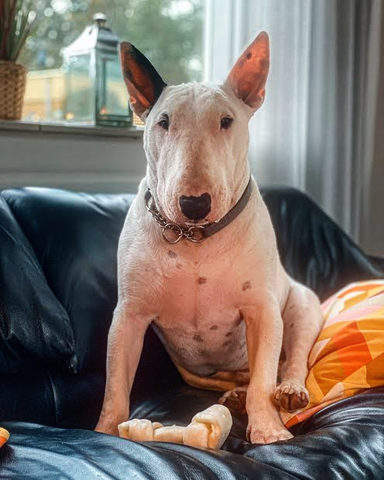
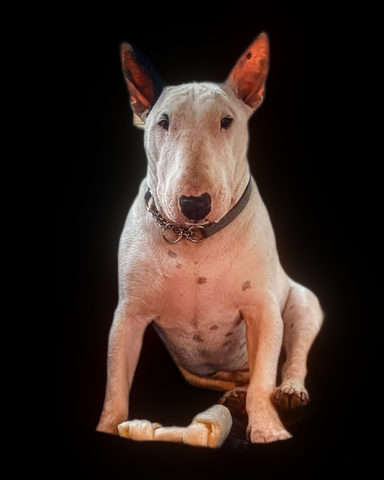
refactor(bloom)!: fold glow into bloom
glow is bloom with one octave. bloom gains edge 'constant' and constant_value
so the halo can fade toward the picture's edge. Callers use bloom with
octaves = 1 and the old radius, amount and threshold, which renders
byte-identical.

BREAKING CHANGE: the glow effect is removed; use bloom(octaves=1).

diff --git a/tests/test_loader.py b/tests/test_loader.py
@@ -482,7 +482,7 @@ of = "depth"
 low = 0.5
 
 [[step]]
-effect = "glow"
+effect = "bloom"
 radius = { by = "near", start = 0, end = 30 }
 amount = { by = "near", start = 0.1, end = 0.8 }
 threshold = 0.6
@@ -495,7 +495,7 @@ def test_a_parameter_written_as_a_table_with_by_is_a_drive_the_same_as_written_i
         regions={"near": Band(of="depth", low=0.5)},
         steps=[
             Step(
-                "glow",
+                "bloom",
                 {
                     "radius": Drive(by="near", start=0, end=30),
                     "amount": Drive(by="near", start=0.1, end=0.8),
@@ -511,7 +511,7 @@ def test_a_parameter_written_as_a_table_with_by_is_a_drive_the_same_as_written_i
 def test_a_look_of_an_each_can_be_driven_in_a_recipe_file(tmp_path):
     text = (
         'format = 3\n[region.g]\nkind = "grid"\n[[step]]\neach = "g"\n'
-        'looks = [{ effect = "glow", radius = { by = "depth", start = 0, end = 9, levels = 3 } }, "none"]\n'
+        'looks = [{ effect = "bloom", radius = { by = "depth", start = 0, end = 9, levels = 3 } }, "none"]\n'
     )
     recipe = load_recipe(_write(tmp_path, text))
     (look,) = recipe.steps[0].runs
@@ -520,36 +520,37 @@ def test_a_look_of_an_each_can_be_driven_in_a_recipe_file(tmp_path):
 
 DRIVE_MISTAKES = {
     "a parameter the effect does not declare drivable": (
-        'effect = "glow"\nthreshold = { by = "depth", start = 0, end = 0.5 }',
-        r"step 1: effect 'glow': `threshold` cannot be driven.*drivable parameters: amount, radius",
+        'effect = "bloom"\nthreshold = { by = "depth", start = 0, end = 0.5 }',
+        r"step 1: effect 'bloom': `threshold` cannot be driven.*drivable parameters: amount, radius",
     ),
     "a whole number": (
         'effect = "halftone"\ncell = { by = "depth", start = 4, end = 12 }',
         r"step 1: effect 'halftone': `cell` cannot be driven.*whole number",
     ),
     "a drive out of the parameter's range": (
-        'effect = "glow"\nradius = { by = "depth", start = 0, end = 900 }',
-        r"step 1: effect 'glow': `radius`.*<= 500.*900",
+        'effect = "bloom"\nradius = { by = "depth", start = 0, end = 900 }',
+        r"step 1: effect 'bloom': `radius`.*<= 500.*900",
     ),
     "a misspelt key": (
-        'effect = "glow"\nradius = { by = "depth", start = 0, end = 9, step = 2 }',
-        r"step 1: effect 'glow': `radius`: .*step",
+        'effect = "bloom"\nradius = { by = "depth", start = 0, end = 9, step = 2 }',
+        r"step 1: effect 'bloom': `radius`: .*step",
     ),
     "a table with no end": (
-        'effect = "glow"\nradius = { by = "depth", start = 0 }',
-        r"step 1: effect 'glow': `radius`: .*end",
+        'effect = "bloom"\nradius = { by = "depth", start = 0 }',
+        r"step 1: effect 'bloom': `radius`: .*end",
     ),
     "a field that is no region": (
-        'effect = "glow"\nradius = { by = "gone", start = 0, end = 9 }',
+        'effect = "bloom"\nradius = { by = "gone", start = 0, end = 9 }',
         r"step 1: `by` names 'gone', which is no region; valid selections: subject, background, depth, light",
     ),
     "a field that is a partition": (
-        'effect = "glow"\nradius = { by = "g", start = 0, end = 9 }',
+        'effect = "bloom"\nradius = { by = "g", start = 0, end = 9 }',
         r"step 1: `by` names 'g', a partition, but it needs a selection",
     ),
     "two fields in one step": (
-        'effect = "glow"\nradius = { by = "depth", start = 0, end = 9 }\namount = { by = "light", start = 0, end = 1 }',
-        r"step 1: effect 'glow': the drives of one step must vary by one field, got 'depth' and 'light'",
+        'effect = "bloom"\nradius = { by = "depth", start = 0, end = 9 }\n'
+        'amount = { by = "light", start = 0, end = 1 }',
+        r"step 1: effect 'bloom': the drives of one step must vary by one field, got 'depth' and 'light'",
     ),
 }
 
@@ -563,7 +564,7 @@ def test_a_mistake_in_a_drive_names_the_file_the_step_the_parameter_and_the_prob
 
 @pytest.mark.parametrize("header", ["", "format = 1\n", "format = 2\n"], ids=["no format", "format 1", "format 2"])
 def test_a_drive_needs_format_3_and_a_file_of_an_earlier_one_says_so_naming_the_parameter(tmp_path, header):
-    text = header + '[[step]]\neffect = "glow"\nradius = { by = "depth", start = 0, end = 9 }\n'
+    text = header + '[[step]]\neffect = "bloom"\nradius = { by = "depth", start = 0, end = 9 }\n'
     with pytest.raises(
         RecipeError, match=r"^old\.toml: step 1: `radius` is a table with `by`, a drive, which needs `format = 3`"
     ):
@@ -573,7 +574,7 @@ def test_a_drive_needs_format_3_and_a_file_of_an_earlier_one_says_so_naming_the_
 def test_a_drive_in_a_look_of_an_earlier_format_is_refused_naming_the_look(tmp_path):
     text = (
         'format = 2\n[region.g]\nkind = "grid"\n[[step]]\neach = "g"\n'
-        'looks = ["none", { effect = "glow", radius = { by = "depth", start = 0, end = 9 } }]\n'
+        'looks = ["none", { effect = "bloom", radius = { by = "depth", start = 0, end = 9 } }]\n'
     )
     with pytest.raises(RecipeError, match=r"^old\.toml: step 1, look 2: `radius` is a table with `by`"):
         load_recipe(_write(tmp_path, text, "old.toml"))
@@ -586,7 +587,7 @@ format = 3
 kind = "grid"
 
 [[step]]
-effect = "glow"
+effect = "bloom"
 name = "pulse"
 radius = 30
 

diff --git a/src/bullterrier_image/core/registry.py b/src/bullterrier_image/core/registry.py
@@ -18,9 +18,9 @@ first query together wait for it and all see the whole table. After that, querie
 threads at once is safe. Registering is for import time: registering or unregistering while other threads query is not
 supported.
 
-An effect is written `def glow(rgb, params: GlowParams, *, subject=None) -> rgb` and registered with its parameter model
-(see `bullterrier_image.core.params`); the decorator returns a `ModelledEffect`, which validates its values through the
-model whichever way it is called.
+An effect is written `def bloom(rgb, params: BloomParams, *, subject=None) -> rgb` and registered with its parameter
+model (see `bullterrier_image.core.params`); the decorator returns a `ModelledEffect`, which validates its values
+through the model whichever way it is called.
 """
 
 import functools
@@ -45,7 +45,7 @@ from .presets import Preset
 # catalogue's index shows it). Every effect is in exactly one category. A dict, so no category lacks its description.
 CATEGORY_DESCRIPTIONS = {
     "colour": "Grades, gradient maps, tints and hue changes: they recolour the picture and leave its shapes alone.",
-    "light": "Glow, bloom and local contrast: they add or shape the light in the picture.",
+    "light": "Bloom and local contrast: they add or shape the light in the picture.",
     "texture": "Grain and other surface texture laid over the picture.",
     "stylised": "Looks that redraw the picture in a printing or drawing style, such as halftone.",
     "text": "Pictures redrawn as characters, such as ASCII art.",
@@ -86,8 +86,8 @@ class ModelledEffect[P: EffectParams]:
     """An effect registered with its parameter model: what `@effect(category=..., params=Model)` returns.
 
     Call it like the function it wraps, with the values given in any of three ways, all validated by the model:
-    `glow(rgb)` (the defaults), `glow(rgb, radius=30)`, or `glow(rgb, GlowParams(radius=30))`. Giving both a model and
-    keyword values, or a model of another effect, is a `TypeError`; an unknown or invalid value is a `RecipeError`
+    `bloom(rgb)` (the defaults), `bloom(rgb, radius=30)`, or `bloom(rgb, BloomParams(radius=30))`. Giving both a model
+    and keyword values, or a model of another effect, is a `TypeError`; an unknown or invalid value is a `RecipeError`
     naming the effect, the field, the constraint and the value. Injected inputs (`subject`, `depth`) are passed by
     keyword in every form.
     """
@@ -163,7 +163,7 @@ _LOADING = _Loading()
 def effect[P: EffectParams](
     *, category: str, params: type[P], opacity: float = 1.0
 ) -> Callable[[Callable[..., np.ndarray]], ModelledEffect[P]]:
-    """Decorator: `@effect(category="light", params=GlowParams)` makes `glow(rgb, params, *, subject=None) -> rgb`
+    """Decorator: `@effect(category="light", params=BloomParams)` makes `bloom(rgb, params, *, subject=None) -> rgb`
     available under its own name to recipes, `fx` and the command line, and returns it as a `ModelledEffect`.
 
     `category` must be one of `CATEGORIES`; `params` an `EffectParams` subclass, whose instance the function receives

diff --git a/src/bullterrier_image/effects/bloom/effect.py b/src/bullterrier_image/effects/bloom/effect.py
@@ -45,8 +45,8 @@ class BloomParams(EffectParams):
         min=1,
         max=8,
         doc="How many scales the halo is built from: octave 1 has the sigma `radius`, each next one half of the "
-        "one before (radius / 2, radius / 4...). 1 = a single Gaussian, as in glow; more adds a tighter, brighter "
-        "core around the highlights.",
+        "one before (radius / 2, radius / 4...). 1 = a single Gaussian; more adds a tighter, brighter core around "
+        "the highlights.",
     )
     persistence: float = param(
         0.5,
@@ -66,10 +66,19 @@ class BloomParams(EffectParams):
         "exact and slower.",
         advanced=True,
     )
-    edge: Literal["reflect", "nearest", "mirror", "wrap"] = param(
+    edge: Literal["reflect", "constant", "nearest", "mirror", "wrap"] = param(
         "reflect",
         doc="What the halo's blur sees beyond the picture's edge: 'reflect' (mirrored, edge pixel repeated), "
-        "'mirror' (mirrored about the edge pixel), 'nearest' (the edge pixel repeated) or 'wrap' (the opposite edge).",
+        "'mirror' (mirrored about the edge pixel), 'nearest' (the edge pixel repeated), 'wrap' (the opposite edge) "
+        "or 'constant' (constant_value, so the bloom fades toward the edge when it is 0).",
+        advanced=True,
+    )
+    constant_value: float = param(
+        0.0,
+        unit="fraction",
+        min=0,
+        max=1,
+        doc="The highlight (0..1) assumed beyond the edge when edge is 'constant'; ignored otherwise.",
         advanced=True,
     )
 
@@ -88,5 +97,7 @@ def bloom(rgb: np.ndarray, params: BloomParams) -> np.ndarray:
     halo = np.zeros_like(bright)
     for octave, weight in enumerate(weights):
         sigma = params.radius / 2.0**octave
-        halo += float(weight) * gaussian_blur(bright, sigma, truncate=params.truncate, edge=params.edge)
+        halo += float(weight) * gaussian_blur(
+            bright, sigma, truncate=params.truncate, edge=params.edge, constant_value=params.constant_value
+        )
     return screen(rgb, params.amount * halo)

diff --git a/tests/test_api.py b/tests/test_api.py
@@ -168,7 +168,7 @@ def test_the_fx_signature_offers_partition_only_to_an_effect_that_takes_it(parti
 def test_a_step_describes_itself_briefly_for_labels():
     assert str(fx.fill("#000000", mask="background")) == "fill(color='#000000') on background"
     assert str(fx.grade(exposure=0.5, opacity=0.3)) == "grade(exposure=0.5) x0.3"
-    assert str(fx.glow(radius=26, blend_mode="screen")) == "glow(radius=26) screen"
+    assert str(fx.bloom(radius=26, blend_mode="screen")) == "bloom(radius=26) screen"
     assert str(fx.disperse(progress=0.9)) == "disperse(progress=0.9)"
     assert len(fx.ascii(chars="xy" * 100).describe(width=30)) == 30
 
@@ -391,7 +391,7 @@ def test_fx_follows_the_effect_registered_under_a_name_now(throwaway_effects):
             id="mask",
         ),
         pytest.param(
-            'effect = "glow"\nradius = 26\nopacity = 0.8', lambda: fx.glow(radius=26, opacity=0.8), id="opacity"
+            'effect = "bloom"\nradius = 26\nopacity = 0.8', lambda: fx.bloom(radius=26, opacity=0.8), id="opacity"
         ),
         pytest.param(
             'effect = "gradient"\nblend_mode = "screen"', lambda: fx.gradient(blend_mode="screen"), id="blend_mode"
@@ -422,7 +422,7 @@ def test_trace_gives_the_input_and_the_picture_after_each_step_in_order(photo):
 
 
 def test_the_last_stage_of_a_trace_is_exactly_what_render_returns(photo, subject):
-    steps = [fx.gradient_map(), fx.fill("#102030", mask="background"), fx.glow(opacity=0.7, blend_mode="screen")]
+    steps = [fx.gradient_map(), fx.fill("#102030", mask="background"), fx.bloom(opacity=0.7, blend_mode="screen")]
     look = Recipe("t", size=64, steps=steps)
     np.testing.assert_array_equal(
         trace(photo, look, maps={"subject": subject})[-1].image, render(photo, look, maps={"subject": subject})

diff --git a/tests/test_plugin.py b/tests/test_plugin.py
@@ -43,13 +43,13 @@ CLASHING_PACKAGE = '''
 from bullterrier_image.plugin import EffectParams, effect
 
 
-class GlowParams(EffectParams):
+class BloomParams(EffectParams):
     """No settings."""
 
 
-@effect(category="light", params=GlowParams)
-def glow(rgb, params):
-    """Another glow."""
+@effect(category="light", params=BloomParams)
+def bloom(rgb, params):
+    """Another bloom."""
     return rgb
 '''
 
@@ -99,7 +99,7 @@ def test_an_installed_plugin_effect_is_listed_and_runs_from_toml_and_from_fx(tmp
         from_fx = render(grey, Recipe("tinted", steps=[fx.zz_tint("#0000ff", amount=0.25)]))
         json.dump({
             "listed": sorted(registry.categories()["colour"]),
-            "builtin_too": "glow" in registry.describe(),
+            "builtin_too": "bloom" in registry.describe(),
             "toml": [float(from_toml.min()), float(from_toml.max()), from_toml[0, 0].tolist()],
             "fx": from_fx[0, 0].tolist(),
         }, sys.stdout)
@@ -140,7 +140,7 @@ def test_a_broken_plugin_is_a_bullterrier_image_error_naming_it_and_bullterrier_
     assert "BT_IMAGE_PLUGINS" in report["everything"]["error"]
     assert "'everything'" in report["everything"]["error"]
     broken = report[""]["error"]
-    for named in ("zz_clash", "zz-clash", "glow", "BT_IMAGE_PLUGINS=builtin"):
+    for named in ("zz_clash", "zz-clash", "bloom", "BT_IMAGE_PLUGINS=builtin"):
         assert named in broken
-    assert "glow" in report["builtin"]["effects"]
+    assert "bloom" in report["builtin"]["effects"]
     assert "zz_clash" not in " ".join(report["builtin"]["effects"])

diff --git a/src/bullterrier_image/core/params.py b/src/bullterrier_image/core/params.py
@@ -1,6 +1,6 @@
 """How an effect declares its parameters: a frozen Pydantic model whose every field is described, ranged and defaulted.
 
-    class GlowParams(EffectParams):
+    class BloomParams(EffectParams):
         \"\"\"Bloom around the bright parts of the picture.\"\"\"
 
         radius: float = param(24.0, unit="px", min=0, max=500, doc="Gaussian sigma of the halo. Larger = wider.")
@@ -244,7 +244,7 @@ def param(
 
 
 def describe_error(error: ValidationError, owner: str, valid: Iterable[str]) -> str:
-    """One sentence for a failed validation: `owner` (e.g. "effect 'glow'"; "" for none), then each problem with its
+    """One sentence for a failed validation: `owner` (e.g. "effect 'bloom'"; "" for none), then each problem with its
     field, the constraint and the value given. `valid` names the fields, listed when an unknown one was given."""
     problems = "; ".join(_problem(detail, sorted(valid)) for detail in error.errors())
     return f"{owner}: {problems}" if owner else problems
@@ -269,7 +269,7 @@ class ValidatedModel(BaseModel):
 
     @classmethod
     def parse(cls, values: Mapping[str, object], owner: str = "") -> Self:
-        """The model for `values` (field name -> value); RecipeError naming `owner` (e.g. "effect 'glow'"), each bad
+        """The model for `values` (field name -> value); RecipeError naming `owner` (e.g. "effect 'bloom'"), each bad
         field, the constraint and the value, and listing the fields when an unknown one was given."""
         try:
             return cls.model_validate(dict(values))

diff --git a/tests/effects/bloom/test_bloom.py b/tests/effects/bloom/test_bloom.py
@@ -110,3 +110,20 @@ def test_edge_sets_what_the_blur_sees_beyond_the_edge() -> None:
     reflected = registry.apply(NAME, lit_edge, radius=3.0, threshold=0.5, edge="reflect")
     assert wrapped[far_side][0] > 0.01
     assert reflected[far_side][0] == 0.0
+
+
+def test_edge_constant_lets_the_bloom_fade_toward_the_edge_and_reflect_does_not() -> None:
+    bright = flat(0.8)
+    reflected = registry.apply(NAME, bright, radius=4.0, octaves=1, edge="reflect")
+    np.testing.assert_allclose(reflected[0, 0], reflected[16, 16], atol=1e-6)  # an even picture stays even
+    dark_beyond = registry.apply(NAME, bright, radius=4.0, octaves=1, edge="constant", constant_value=0.0)
+    lit_beyond = registry.apply(NAME, bright, radius=4.0, octaves=1, edge="constant", constant_value=1.0)
+    assert dark_beyond[0, 0, 0] < dark_beyond[16, 16, 0] - 0.01
+    assert lit_beyond[0, 0, 0] > dark_beyond[0, 0, 0]
+
+
+def test_constant_value_is_the_highlight_assumed_beyond_the_edge() -> None:
+    """Beyond the edge the picture is a flat highlight of `constant_value`; far from the edge it does not matter."""
+    out_of_range = registry.apply(NAME, flat(0.0, 81), radius=2.0, octaves=1, edge="constant", constant_value=1.0)
+    np.testing.assert_allclose(out_of_range[40, 40], 0.0, atol=1e-6)  # 40 px in: 20 sigma from the edge
+    assert out_of_range[0, 0, 0] > 0.4  # in the corner, 3/4 of the blur's weight is beyond the edge

diff --git a/tests/core/test_runner.py b/tests/core/test_runner.py
@@ -1369,7 +1369,7 @@ def test_a_size_that_is_not_a_whole_number_of_pixels_is_refused_naming_it(photo,
     "step",
     [
         pytest.param(Step("gaussian_blur", {"radius": 6.0}), id="a blur"),
-        pytest.param(Step("glow", {"radius": 24.0}), id="a glow"),
+        pytest.param(Step("bloom", {"radius": 24.0}), id="a bloom"),
         pytest.param(Step("clarity", {"radius": 30.0}), id="a local contrast"),
         pytest.param(Step("drop_shadow", {"dx": 12.0, "dy": 18.0, "blur": 24.0}), id="a shadow offset and blurred"),
         pytest.param(Step("pixel_grid", {"cell": 4}), id="a grid of whole pixels"),

diff --git a/src/bullterrier_image/core/steps.py b/src/bullterrier_image/core/steps.py
@@ -225,7 +225,7 @@ class Step(_Layer):
         return [*super().references(), *driving, *drawn]
 
     def describe(self, width: int = 56) -> str:
-        """A short readable form, e.g. `fill(color='#000000') on background` or `glow() screen x0.8` (the blend mode,
+        """A short readable form, e.g. `fill(color='#000000') on background` or `bloom() screen x0.8` (the blend mode,
         then the opacity), cut to `width` characters."""
         shown = ", ".join(f"{k}={_short(v)}" for k, v in self.params.items())
         return _described(f"{self.effect}({shown})", self, width)

diff --git a/tests/test_recipe.py b/tests/test_recipe.py
@@ -172,7 +172,7 @@ def test_a_mode_on_the_background_leaves_the_subject_untouched(photo, subject):
 def test_a_step_says_its_mode_and_by_default_it_is_normal():
     assert Step("grain").blend_mode == "normal"
     assert Step("grain", blend_mode="screen") != Step("grain")
-    assert Step("glow", blend_mode="screen", opacity=0.8).describe() == "glow() screen x0.8"
+    assert Step("bloom", blend_mode="screen", opacity=0.8).describe() == "bloom() screen x0.8"
 
 
 def test_effects_that_declare_a_matte_parameter_get_the_person_silhouette(photo, subject, throwaway_effects):

diff --git a/src/bullterrier_image/fx.py b/src/bullterrier_image/fx.py
@@ -6,7 +6,7 @@
         fx.gradient_map(stops=["#12002b", "#ff2bd6", "#00f0ff"]),
         fx.fill("#000000", mask="background"),                  # only where the photo's background is
         fx.glitch(split=12, bands=8, seed=4),
-        fx.glow(radius=26, amount=0.65, opacity=0.8),           # mixed in at 80%
+        fx.bloom(radius=26, amount=0.65, opacity=0.8),           # mixed in at 80%
         fx.gradient(blend_mode="screen", opacity=0.5),          # a gradient screened over the picture
     ])
     image = render(photo, look)

diff --git a/tests/test_examples.py b/tests/test_examples.py
@@ -95,7 +95,7 @@ def test_the_avatar_recipe_crops_a_square_around_the_subject_and_cuts_a_circle(p
 def test_a_recipe_of_two_effects_is_not_a_combination(tmp_path):
     path = tmp_path / "two.toml"
     path.write_text(
-        'name = "two"\n[[step]]\neffect = "grain"\n[[step]]\neffect = "grain"\n[[step]]\neffect = "glow"\n',
+        'name = "two"\n[[step]]\neffect = "grain"\n[[step]]\neffect = "grain"\n[[step]]\neffect = "bloom"\n',
         encoding="utf-8",
     )
     assert not _is_a_combination(load_recipe(path))
